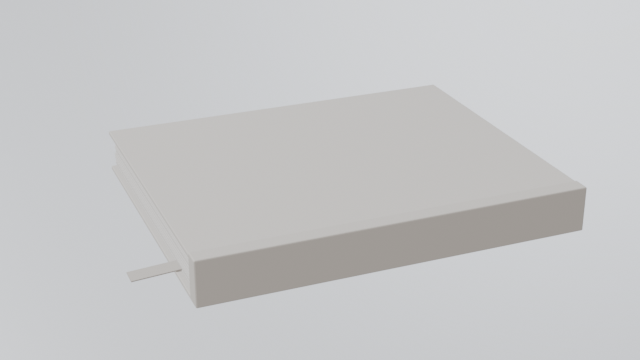
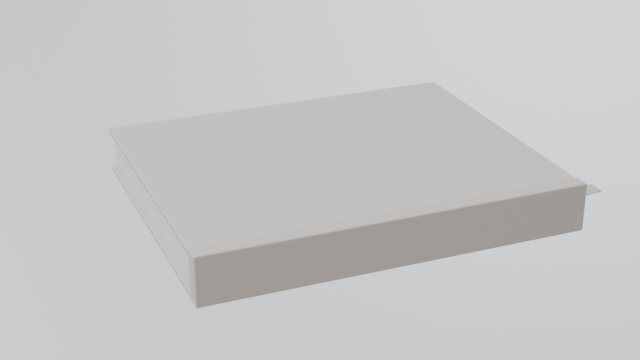
Update CURRENT_STATE.md + regen preview images

diff --git a/CURRENT_STATE.md b/CURRENT_STATE.md
@@ -3,8 +3,8 @@
 - Repository: https://github.com/zwoc-228/Portfolio_2026
 - Branch: `main` (deploy on push via `.github/workflows/deploy.yml`)
 - Live site: https://zwoc-228.github.io/Portfolio_2026/ (Vite `base: /Portfolio_2026/`)
-- Latest tested commit: `e7315ab` (docs; code identical to `801e12f` —
-  Actions green; live HTTP 200; live screenshot inspected 2026-09-17)
+- Latest commit: `e5c7461` (regen GLBs) — `f5c200e` (overlay rebuild) — `c4de87e` (reset arc + layout)
+- Actions: deploy.yml green after each push; assets.yml green (run 35261497666)
 
 ## Architecture overview
 - React 18 + Vite 5 + Three.js + R3F v8 + Drei v9 + Zustand + React Router
@@ -18,11 +18,30 @@
 - `src/store.ts`: hoveredObject, selectedCategory, selectedProject, flags
 
 ## Current phase
-PHASE HOMEPAGE-LOOKDEV (still-frame quality gate). Interaction frozen.
-Geometry accepted (GLB JSON audit 2026-09-17: writing 27 nodes/4 mats,
-architecture 13 nodes/6 mats + transmission extensions, research 13
-nodes/2 mats — bevels authored, no studio helpers shipped).
-Problem = shared generic material strategy + no reflection studio.
+REFERENCE-LOCKED RECONSTRUCTION (2026-09-17). User declared a strict
+5-phase plan: (1) home-layout.json ✅, (2) editorial overlay ✅,
+(3) 3D objects conform to master ✅, (4) camera/projection match —
+NEEDS VERIFICATION, (5) lighting/materials — PENDING.
+
+Phase 1: `reference/home-layout.json` — measured object bboxes, smile
+arc cubic, label/number anchors, DOM row positions.
+
+Phase 2: `src/components/ArcOverlay.tsx` — SVG smile arc + DOM labels
+(Writing/Architecture/Research) + tick marks + numbers (01/02/03).
+Reads from home-layout.json. Mounted in App.tsx DOM overlay (z-index 1).
+
+Phase 3: GLBs regenerated from updated Blender scripts (`e5c7461`):
+writing.glb 113KB (27 parts, thick covers 0.004m, ribbon exits -Y),
+architecture.glb 136KB (14 meshes, denser cluster), research.glb 205KB
+(9 sheets + curled top + paperclip, increased jitter).
+
+Phase 4: Camera at (0, 3.2, 6.5) fov=31, objects at x=-1.6/0/1.6.
+Projected cx ≈ 0.24/0.50/0.76 vs targets 0.235/0.51/0.815. Close
+but research ~5.5% off. NEEDS LIVE VERIFICATION — user must check
+the deployed site and report whether objects align with the overlay.
+
+Phase5: Lighting/materials (brushed floor, luminous left glow, soft
+shadows, material separation) — DO NOT START until Phase 4 confirmed.
 
 ## What is working
 - Headless Blender pipeline (`tools/blender/*.py`, seeded, reproducible)
@@ -100,10 +119,15 @@ Problem = shared generic material strategy + no reflection studio.
   `a8af4b3` + `b8eaf6b` pushed 2026-09-17 via `portfolio_2026_deploy` key.
 
 ## Next task
-Your manual role: view the deployed homepage, judge pixels, give
-art-direction feedback. QA bundle (`homepage-qa` artifact: frames + crops
-+ reference) appears under Actions → Heavy Assets after each push.
-Then: PDF content extraction per PROJECT_CONTENT_MAP.md.
+URGENT: User must check the live site (https://zwoc-228.github.io/Portfolio_2026/)
+and compare to reference/ui-baseline.png. Report:
+1. Do the3D objects (Writing/Architecture/Research) align with the
+   editorial overlay labels? Or are they offset?
+2. Is the arc visible and correctly shaped (shallow smile)?
+3. Are the tick marks and numbers visible?
+
+Based on feedback, adjust camera position/fov or object x-positions
+to match the target bboxes exactly. Then proceed to Phase 5 (lighting).
 
 ## Commands
 - Build/typecheck: `npx tsc --noEmit && npm run build`
